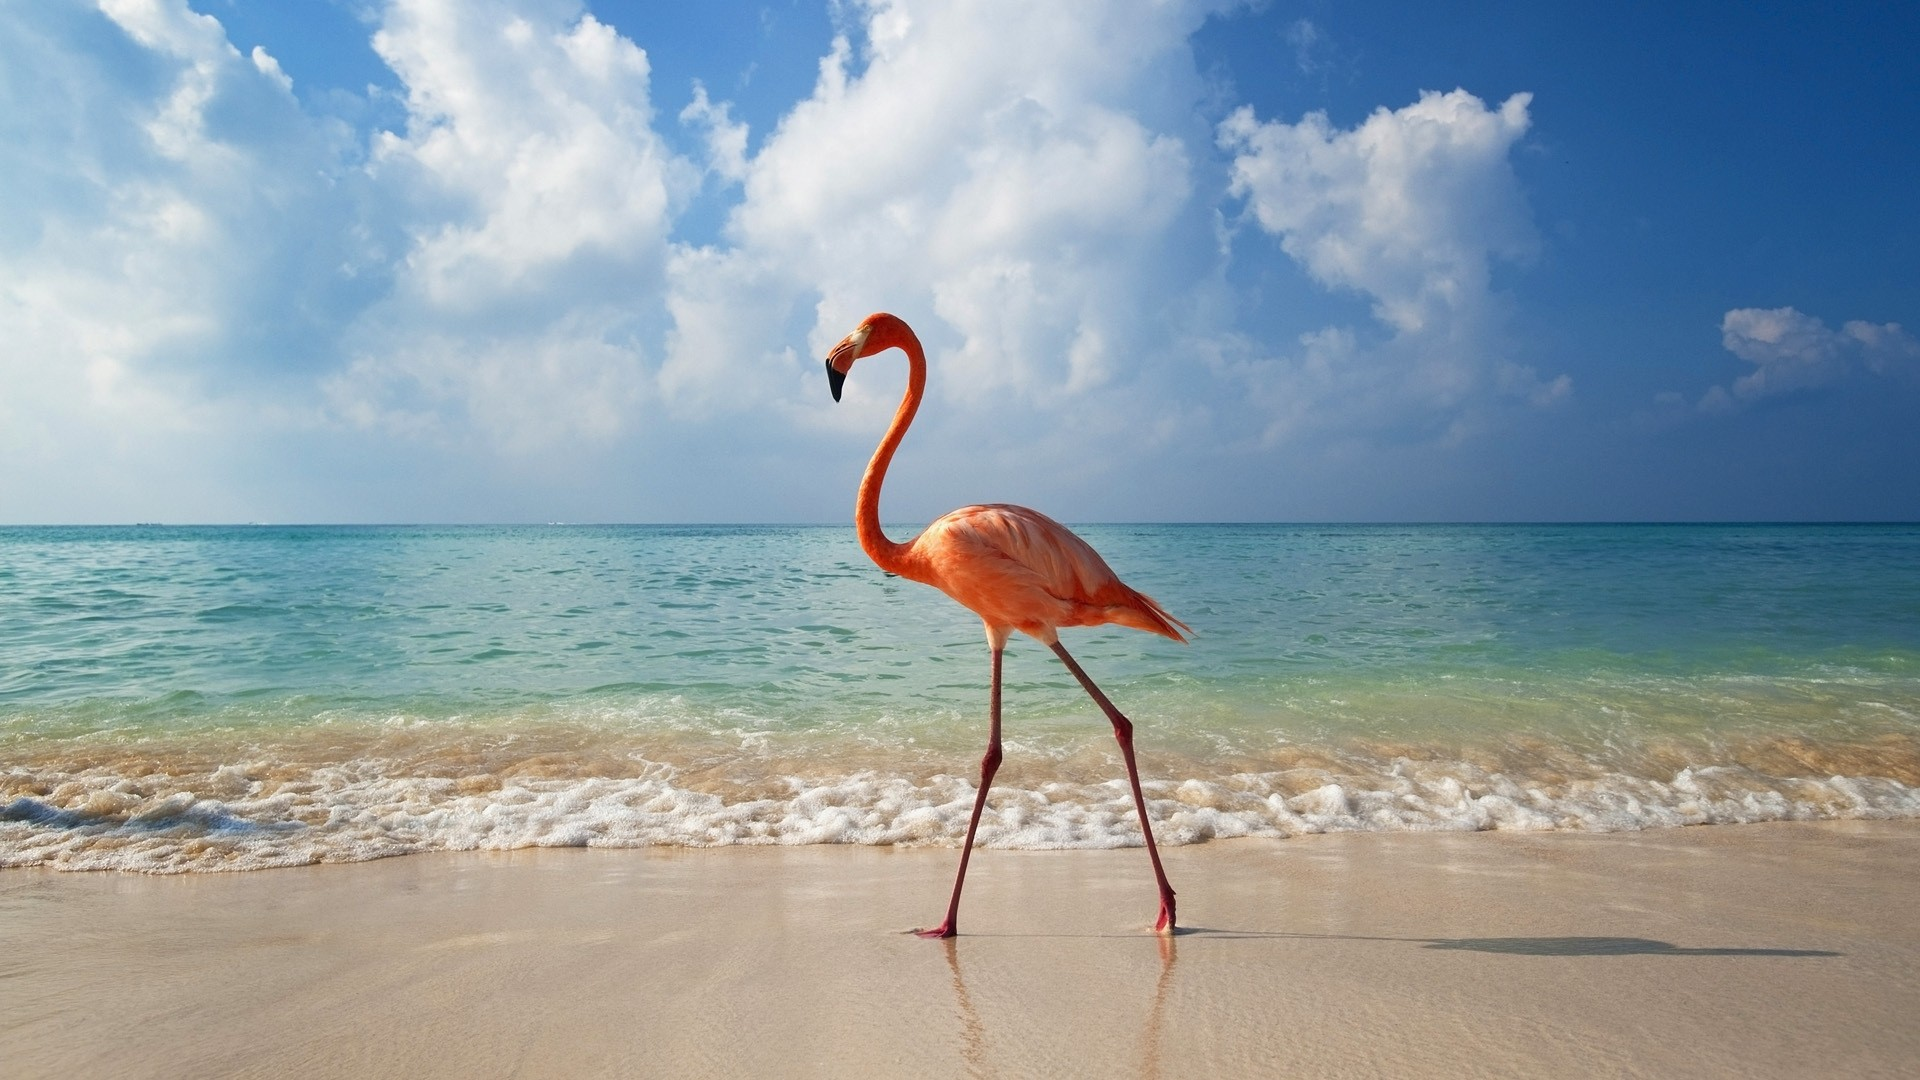
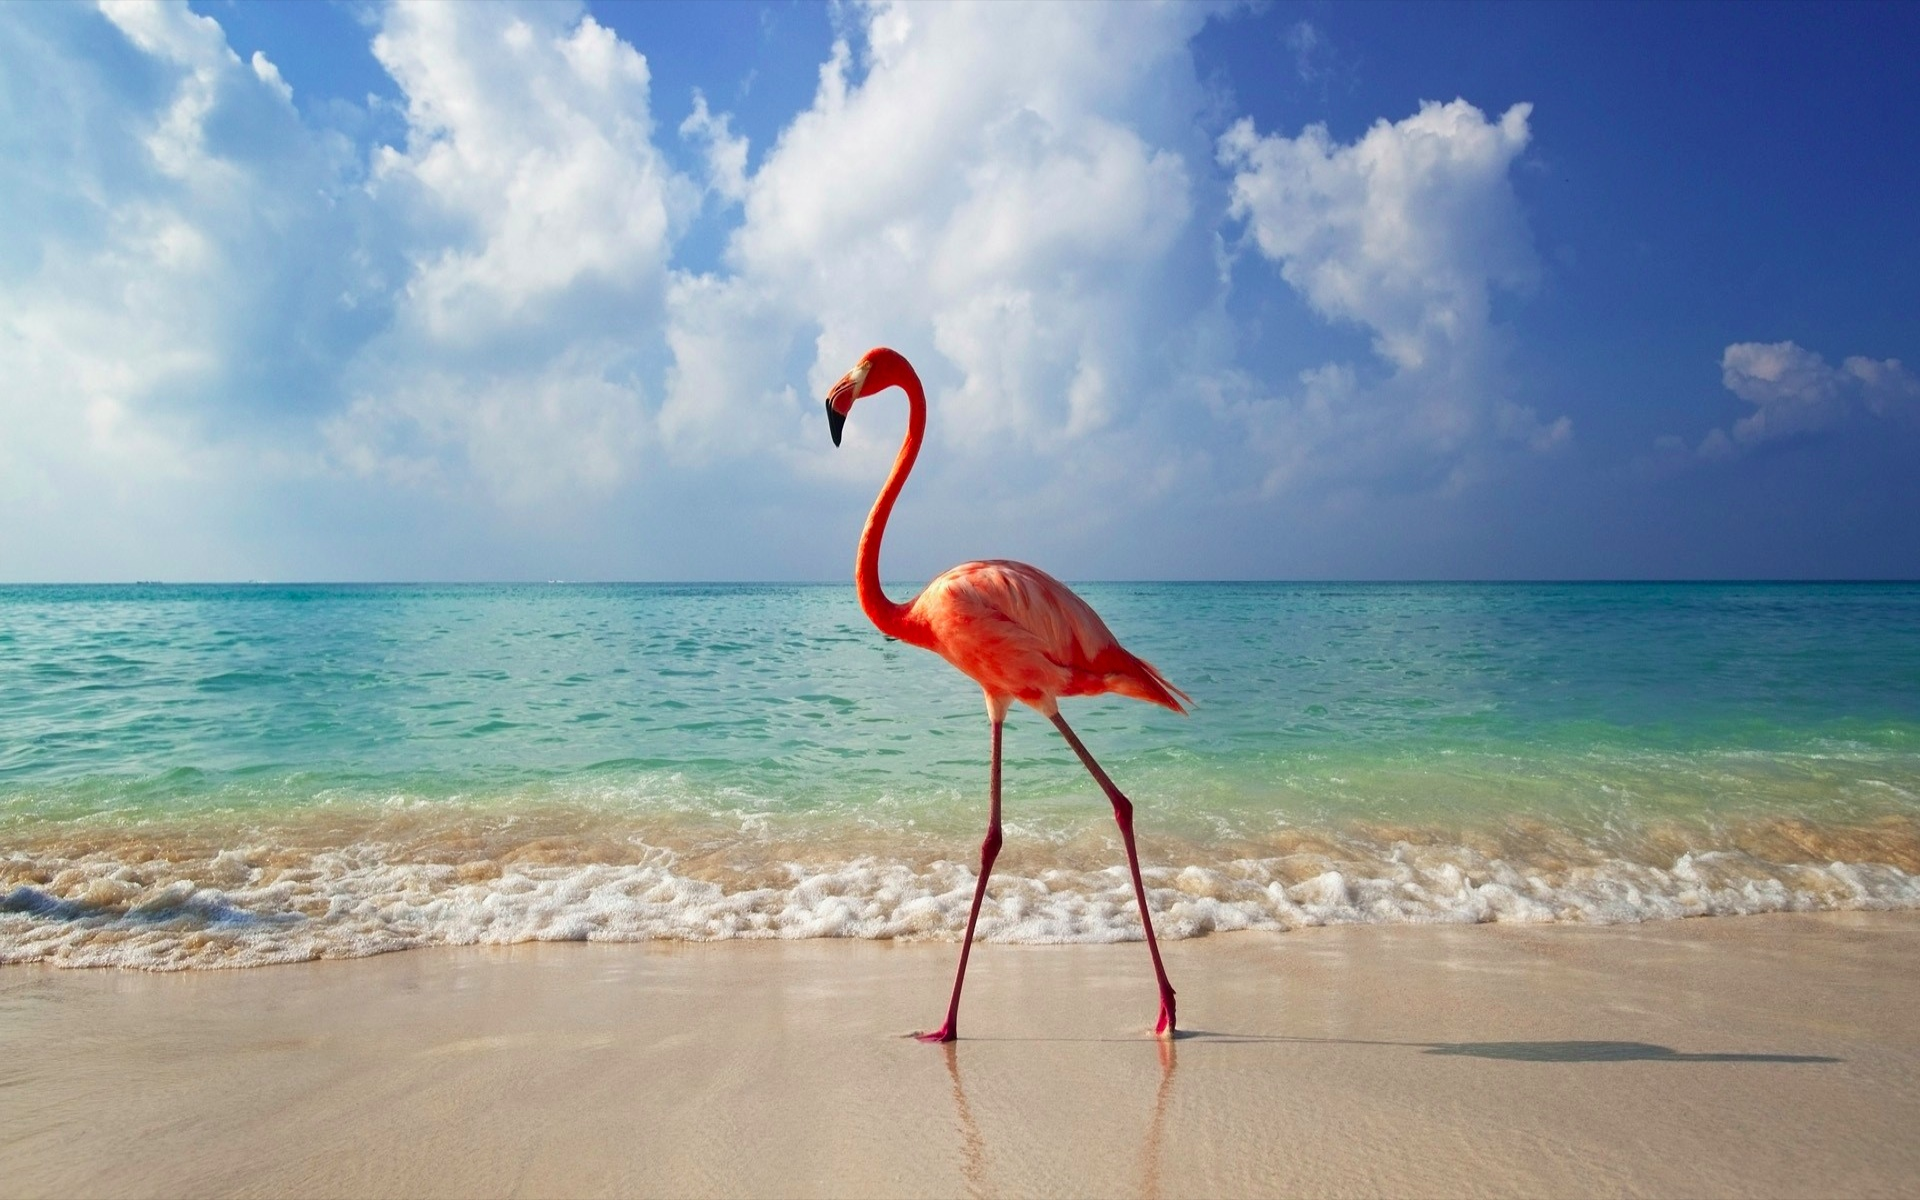
Resized images to 1920x1200 and minor css change for look of themes

Changed region(s): [[0.4375, 0.3972, 0.625, 0.5806], [0.4375, 0.3056, 0.5, 0.3972], [0.125, 0.4889, 0.1875, 0.5194]]

diff --git a/client/app/components/dashboard/themes/views/dashboardIndex.html b/client/app/components/dashboard/themes/views/dashboardIndex.html
@@ -4,7 +4,7 @@
     <div class="row" ng-repeat="rows in splitData">
       <div class ="col-md-4" ng-repeat="image in rows">
         <!-- $parent.index is the row number, $index is the column number -->
-        <input class="img-responsive" type="image" style="border: 0; background: transparent" src="{{image}}" ng-click="selectedImage.value = $parent.$index*3+$index"></input>
+        <input class="img-responsive" type="image" style="border: 0; background: transparent; padding-left: 0; border: 1px solid white" src="{{image}}" ng-click="selectedImage.value = $parent.$index*3+$index"></input>
       </div>
     </div>
     
